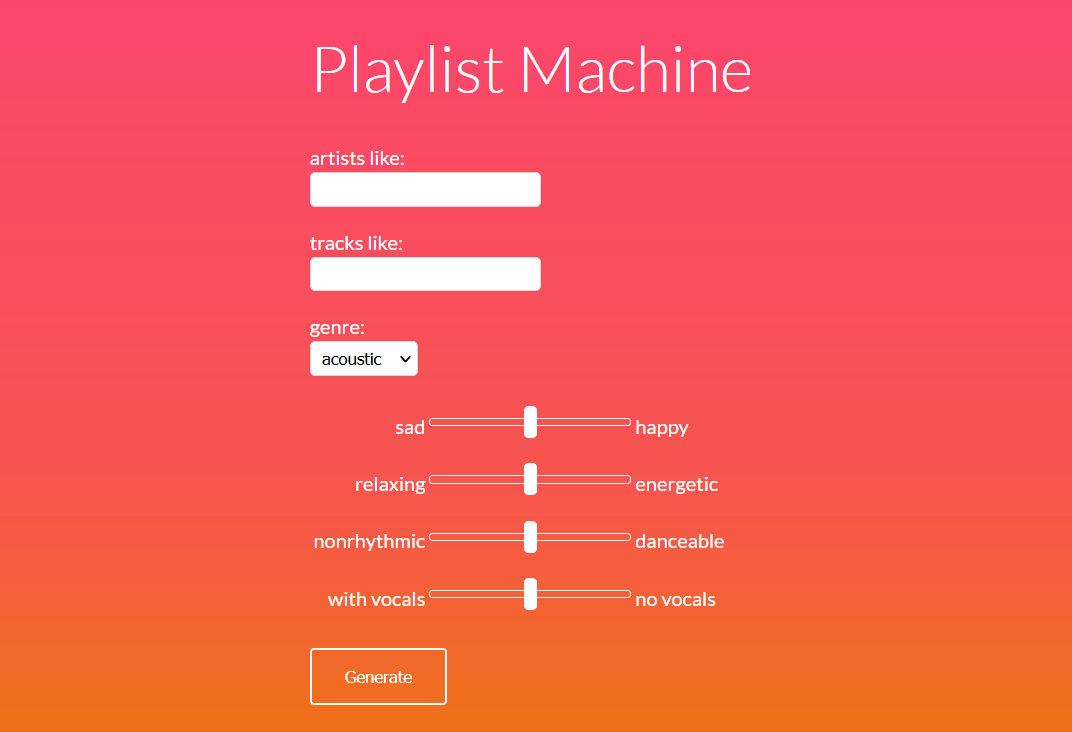
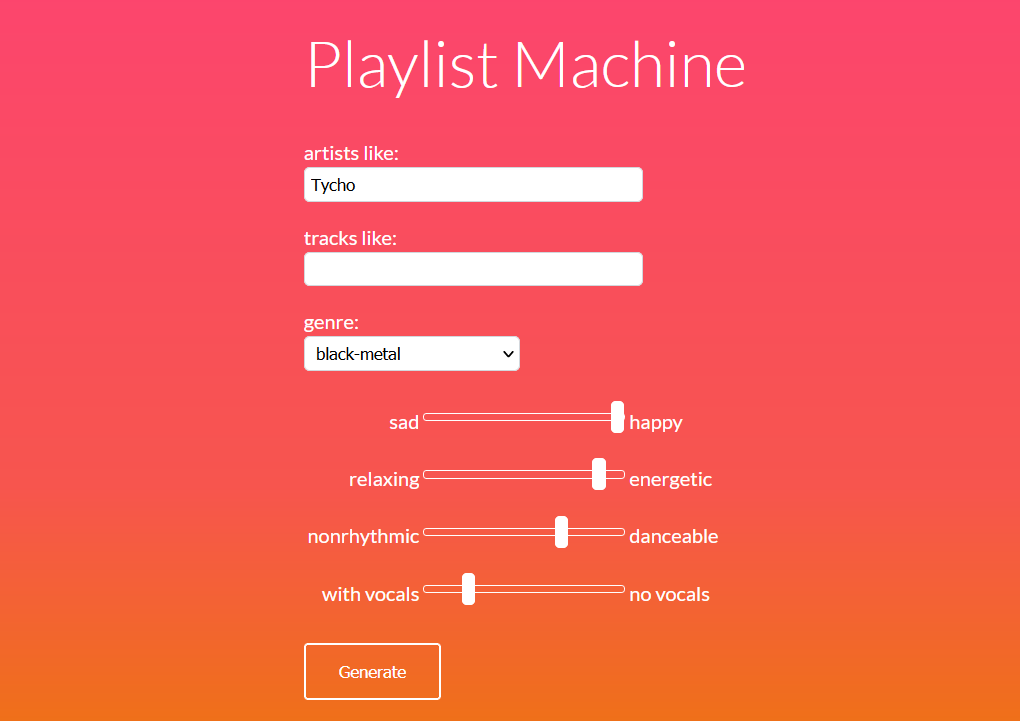
fixed style of input and fixed screenshot

diff --git a/static/styles.css b/static/styles.css
@@ -33,7 +33,7 @@ h2 {
 }
 
 .genre_input {
-    width: 10%
+    width: 20%
 }
 
 input[type=range] {
